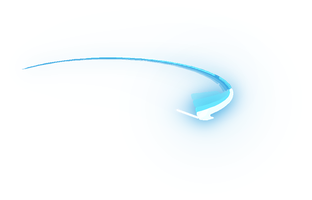
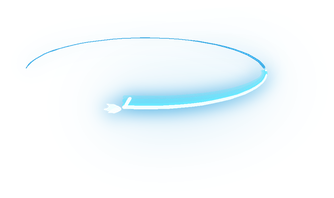
Slash sweep: near arc runs the whole way across the chest, thinner-but-stronger near stroke, fade pace follows the swing radius
sweep now starts behind the shoulder (u0 175) and ends past the nearest point (u1 460); the near part takes its thickness from a new swing key w_near (12 px), sparks fly on behind the blade, release 0.33; the fade rate of any plane swing is scaled by (radius/120)^0.5 so a 85 px swing no longer pops at 15 fps. Other slash effects are bit-identical; diag_down/diag_up change only at radii below 120. Docs and S2b result updated.

Claude-Session: https://claude.ai/code/session_01Q5Gk7TNfnTB4a4oLDadQgb

Changed region(s): [[0.0577, 0.2121, 0.8365, 0.6667], [0.2596, 0.1818, 0.6058, 0.2121], [0.6058, 0.2121, 0.6923, 0.2424]]

diff --git a/lib-fx/_core/formulas/draw/fxkit/layers/slash.py b/lib-fx/_core/formulas/draw/fxkit/layers/slash.py
@@ -45,7 +45,7 @@ def slash(c, ph, weapon="sword", bend=0.34, width=0.0, span=0.0, strands=0, tone
     swing: the same smear for a swing in a PLANE seen from the game's camera (dict; build.py --swing): {"k": flatness (1 = flat to the
     screen, 0.3 = lying on the ground, 0.6 = slanted), "roll": deg, "u0", "u1": the blade's angle in its plane at the start and the end
     (0 ahead, 90 near, 180 behind, 270 far; u grows ahead -> near -> behind -> far), "r": px the tip is from the shoulder a at s = 1
-    (0 = the distance a -> b), "blade": the share of the radius that is swept, "ease"}. a is the shoulder, b only says which way it
+    (0 = the distance a -> b), "blade": the share of the radius that is swept, "ease", "w_near": thickness of the near part, px at s = 1 (0 = from the radius)}. a is the shoulder, b only says which way it
     faces. The tip runs on a circle around a; what we see is its projection (plane_point). It is drawn in two halves: the far half
     (depth < 0) on the BACK canvas, cooler and thin, the near half on the FRONT canvas, bright and thick; everything else (fh, fade,
     three strands, white edge) is the track mode's. Overrides track."""
@@ -105,6 +105,7 @@ def slash(c, ph, weapon="sword", bend=0.34, width=0.0, span=0.0, strands=0, tone
         u0, u1 = float(sw.get("u0", 235)), float(sw.get("u1", 430)); ease = float(sw.get("ease", 1.3))
         R = float(sw.get("r", 0.0)) * s or c.sp.len; bl = float(sw.get("blade", 0.75)); blade = bl
         q_ = (1 - k_) / 0.75; wmin = 7.0 * s; mnear = min(2.4, 1 + 1.4 * q_)
+        wnear = float(sw.get('w_near', 0) or 0) * s                                          # the near part's own thickness (px at s = 1) instead of the radius-based one; 0 = old
 
         def uf(f): return u0 + (u1 - u0) * clamp(f) ** ease
         def pt3(f, rho):
@@ -142,7 +143,10 @@ def slash(c, ph, weapon="sword", bend=0.34, width=0.0, span=0.0, strands=0, tone
         return p, (-math.sin(a) * sg, math.cos(a) * sg)                                    # point, unit vector to the inside of the bow
 
     def pw(f):                                                                             # full ribbon width at arc position f
-        if sw: return max(wmin * mfac(f), R * bl * k_ * (1 + 0.16 * depth(f)) * mfac(f) / mnear) * prof((f - lo) / L)   # a stroke: fat where near, thin where far
+        if sw:                                                                              # a stroke: fat where near, thin where far
+            g = wnear if wnear else R * bl * k_
+            fl = wmin * (min(mfac(f), 1.0) if wnear else mfac(f))                         # the floor: with w_near it does not fatten the near part
+            return max(fl, g * (1 + 0.16 * depth(f)) * mfac(f) / mnear) * prof((f - lo) / L)
         if track: return blade * swing(f)[2] * prof((f - lo) / L)                          # the covered share of the blade, tip inwards
         return W * prof((f - lo) / L)
 
@@ -168,6 +172,7 @@ def slash(c, ph, weapon="sword", bend=0.34, width=0.0, span=0.0, strands=0, tone
         bands.append((x, x + ws[j])); x += ws[j] + (gaps[j] if j < K - 1 else 0.0)
     wmax = max(ws)
     lk = linger / 3.4 * (1.3 if axe else 1.0)
+    if sw: lk *= (R / 120.0) ** 0.5                                                         # a small swing fades slower, a 120 px one as before
     S = []
     for j in range(K):
         r = c.rng("strand", j)

diff --git a/lib-fx/melee/slash/slash.py b/lib-fx/melee/slash/slash.py
@@ -40,21 +40,21 @@ EFFECTS = {
 }
 
 
-def _plane_effect(name, title, desc, sw, tags, linger):
+def _plane_effect(name, title, desc, sw, tags, linger, sparks=((-10, 60), (0, 50)), release=0.36):
     """A smear of a swing in a PLANE seen from the game's camera (kind slash, parameter swing): a = the shoulder, b = one `reach` ahead of it,
     the tip runs on a circle of radius `reach` round a; the far half goes behind the character, the near half in front. The sparks start at
     the tip's last position (worked out from the same plane, so they follow the plane if it is changed)."""
     (x, y), _ = plane_point(sw, sw["u1"], 120.0)
     end = ("a", round(x, 1), round(-y, 1))
     return _slash.variant(name, title=title, space="aim", reach=120, extent=260, tags=["planar"] + tags, desc=desc,
-        layers={"slash": {"life": Life(-1 / 15, 1 / 15, 0.0, 0.36), "streaks": 0, "linger": linger, "swing": sw},
-                "scraps": {"at": end, "floor": True, "arc": (-10, 60), "life": Life(0.033, 0.033, 0.0, 0.33)},
-                "streaks": {"at": end, "arc": (0, 50), "life": Life(0.0, 0.033, 0.033, 0.13)}})
+        layers={"slash": {"life": Life(-1 / 15, 1 / 15, 0.0, release), "streaks": 0, "linger": linger, "swing": sw},
+                "scraps": {"at": end, "floor": True, "arc": sparks[0], "life": Life(0.033, 0.033, 0.0, 0.33)},
+                "streaks": {"at": end, "arc": sparks[1], "life": Life(0.0, 0.033, 0.033, 0.13)}})
 
 
 EFFECTS["sweep"] = _plane_effect("sweep", "Chém ngang", "a SWORD swung level with the ground (a horizontal sweep) seen from the game's camera: a very flat ellipse, nearly a line; the "
     "far half passes BEHIND the character, cool and thin, the near half in FRONT, bright and thick; use it with the shoulder as --from",
-    dict(k=0.3, roll=0.0, u0=215, u1=410, blade=0.75, ease=1.3), ["horizontal"], 3.4)
+    dict(k=0.3, roll=0.0, u0=175, u1=460, blade=0.75, ease=1.3, w_near=12), ["horizontal"], 3.4, sparks=((150, 215), (160, 200)), release=0.33)
 EFFECTS["diag_down"] = _plane_effect("diag_down", "Chém xéo xuống", "a SWORD slash on a slanted plane, from high behind the shoulder to low in front, seen from the "
     "game's camera: a half-flattened ellipse turned 35 degrees; use it with the shoulder as --from",
     dict(k=0.6, roll=35.0, u0=205, u1=400, blade=0.8, ease=1.3), ["diagonal"], 2.4)

diff --git a/lib-fx/_plans/slash-round-02/S2b-sweep-strength.md b/lib-fx/_plans/slash-round-02/S2b-sweep-strength.md
@@ -54,3 +54,48 @@ Dựng `diag_down`, `diag_up` với cùng `--from/--to` ở 15 fps trước và 
 - [ ] `python lib-fx/build.py melee/slash --check` không FAIL; `python lib-fx/_tools/fxkit_test.py` qua; commit + push; đánh dấu ô S2b trong `PLAN.md`.
 
 ## Kết quả (người làm điền: `u0`, `u1`, `w_near`, `release` cuối cùng; số đo từng tiêu chí; đường dẫn ảnh; lệch so với task và lý do)
+
+### Giá trị cuối cùng (người làm: S2b, 2026-11-14)
+`sweep`: **u0 = 175, u1 = 460, w_near = 12, release = 0,33** (k = 0.3, blade = 0.75, ease = 1.3 giữ nguyên). Mới thêm: khoá `w_near` của dict `swing`; hệ số tan `(R / 120) ** 0.5` trong nhánh mặt phẳng vung; tham số `release` (mặc định 0,36) và `sparks` (cung bay của `scraps` / `streaks`, mặc định như cũ) của `_plane_effect`. `diag_down`, `diag_up` giữ `w_near` = 0 (công thức cũ), `release` 0,36, sparks cũ.
+
+Ảnh (thư mục tạm, không ghi vào `out/`; thư mục scratchpad của session, có thể bị dọn):
+- trước / sau, r = 85, 6 khung đầu, trên thân `azure_blade`: `/tmp/claude-0/-home-user-fal-lab/0d4327dc-c403-51b7-8868-48c89542b69c/scratchpad/s2b/before_after_r85.png`
+- lưới 6 khung r = 85 / r = 120 (sau): `.../s2b/t8_r85.png`, `.../s2b/t8_r120.png`; khung trúng đòn phóng 300 %: `.../s2b/t8_zoom.png`; lưới trước: `.../s2b/before_r85_grid.png`, `.../s2b/before_r120_grid.png`
+- khung dựng: `.../s2b/before/{r85,r120,left85}` (mốc) và `.../s2b/t8/{r85,r120,left85,solo_r85,solo_r120}` (sau).
+
+### Số đo (15 fps, khung trúng đòn h = `hit_frame` trong `meta.json` = 2, 1-based; alpha >= 128; ghép lên khung 1 của `skill_crescent_puppet_side`, vai (140, 160))
+Mốc trước khi sửa (`u0 = 215`, `u1 = 410`), r = 85: `front/` 567 điểm, `back/` 279 (tỉ lệ 2,03); `front/` dài 57 px = 0,67 r; cao / rộng 0,335; `fxcheck`: pop (khung 3 -> 4 mất 47 %); A(h+1)/A(h) = 0,98, A(h+2)/A(h) = 0,51, A(h+3)/A(h) = 0,05; cung phần gần phủ: từ u = 0 tới 50° (u1 410 -> 50°). r = 120: front 1016, back 556, `front/` dài 0,48 r, cao / rộng 0,31, tỉ lệ A 0,69 / 0,41 / 0,10.
+
+Sau khi sửa:
+| tiêu chí | r = 85 | r = 120 | quay trái r = 85 |
+|---|---|---|---|
+| `front/` / `back/` (điểm) | 1462 / 294 = 4,97 | 2160 / 265 = 8,15 | 1474 / 294 = 5,01 |
+| `front/` dài ngang / (r * s) | 128 px = 1,51 | 164 px = 1,37 | 1,51 |
+| cao / rộng khung bao | 0,392 (67 / 171) | 0,318 (77 / 242) | 0,398 (68 / 171) |
+| bề dày lớn nhất phần gần (đường kính nội tiếp, nét riêng không scraps / streaks) | 16 px | 18 px | - |
+| gần / xa | 3,58 | 6,36 | - |
+| A(h+1) / A(h) | 0,71 | 0,69 | 0,74 |
+| A(h+2) / A(h) | 0,31 | 0,28 | 0,31 |
+| A(h+3) / A(h) | 0,00 | 0,00 | 0,00 |
+| `fxcheck` | chỉ cảnh báo `linger` (4 khung cuối < 2 %); không pop, không cut | như vậy | như vậy |
+- Cung phần gần phủ: từ u = 0 (trước mặt) tới 100° (u1 = 460), tức đi hết phần trước ngực và dừng ở phía gần hơi về sau.
+- Ảnh gương: IoU mặt nạ (khung trúng đòn, quay trái lật so với quay phải, cho phép lệch 1 px) = 0,987. Mốc trước khi sửa: 0,978.
+- Hai đầu: đuôi vệt nhọn như kim (xem `t8_zoom.png`); đầu vệt (bên trái, gần eo) vẫn mang bề rộng lưỡi và dải `edge` trắng nằm trong vệt như cũ (không thò ra); đầu này không nhọn hơn bản cũ (thiết kế của chế độ theo dõi: "đầu giữ bề rộng lưỡi").
+- Ảnh ghép: lưới 6 khung "trước" và "sau" cạnh nhau: lưỡi quét ngang qua trước ngực từ khung 2, rồi tan thành nét mảnh ở khung 4, rỗng ở khung 5.
+- Không hồi quy (hash SHA-256 của mọi png dựng, so trước / sau khi sửa, dựng hai lần giống nhau): `crescent`, `heavy`, `thrust`, `axe`, `axe_heavy` (30 fps, `--from 40,100 --to 200,140`), `swing --track` (15 fps, lệnh trong HANDOVER mục 5): **giống hệt**. `diag_down`, `diag_up` ở r = 120 giống hệt; ở r = 85 đổi (xem dưới).
+- `python lib-fx/build.py melee/slash --check`: không FAIL (xong, thoát 0; thư viện có `sweep` dựng lại, `lib-fx/catalog.json` đổi theo). `python lib-fx/_tools/fxkit_test.py`: xem dòng cuối của mục này.
+
+### Lệch so với task và lý do
+1. **`u0 = 175` thay vì 245** (task: 245, tối đa 255). Với 245 / 460 cao / rộng là 0,59 (r = 85) và 0,51 (r = 120). Quy tắc của task (giảm `u1`, tăng `u0`) đi sai hướng: tăng `u0` đưa điểm bắt đầu về phía xa nhất (u = 270), làm vệt cao thêm và hẹp đi (quét lưới u0 215 / 235 / 245 / 225 x u1 430 / 445 / 460, cao / rộng 0,45 - 0,59 cho r = 85). Chỉ hạ `u0` (đuôi kéo dài ra sau lưng) đưa tỉ lệ xuống <= 0,40: u0 = 195 cho 0,399, 185 cho 0,385, 175 cho 0,392 khi có sparks bay về sau. Hệ quả: vệt bắt đầu ở sau lưng nhân vật (x ~ -r), khung trước đòn là một chấm xanh nhỏ nằm sau lưng cách thân ~ 0,9 r (xem khung 1); `u1` giữ 460 (đo: u1 = 430 cho `front/` dài 0,72 r < 0,9; u1 = 445 cho 0,95 r, sát giới hạn; 460 cho 1,2 - 1,5 r và vệt đi hết qua điểm gần nhất u = 90).
+2. **`w_near = 12` thay vì 16.** Mạch task: `w_near` thay hằng `wmin` (7 px) làm bề dày nhỏ nhất, đặt 16. Nhưng `wmin` bị nhân `mfac` (tới 2,4 ở chỗ gần nhất), nên phần gần ra 38 px, và cách đo của tôi (đường kính nội tiếp mặt nạ alpha >= 128 ở khung trúng đòn) ở mốc đã cho 16,5 px (r = 85), không phải 10 - 12 như task ghi. Tôi định nghĩa `w_near` là bề dày nét ở chỗ gần nhất (px ở s = 1, trước hệ số phối cảnh 1,16) và hạ sàn `wmin * mfac` của phần gần để không làm dày thêm (phần xa không đổi: `4,5 px` ở r = 85 so với 4,5 trước đó). Với 14 thì đo ra 20 px (> 18); 12 cho 16 (r = 85) và 18 (r = 120), vào khoảng 14-18.
+3. **`release = 0,33` (hạ) thay vì 0,36 -> tối đa 0,42.** Sau khi nhân `(R / 120) ** 0.5` (làm vệt nhỏ tan chậm hơn), A(h+1) / A(h) ở r = 85 là 0,76 (hơi quá 0,75); không còn `pop`. Tăng `release` làm tan chậm hơn nên sai hướng; hạ xuống 0,33 cho 0,71 / 0,69 (đo 0,30: 0,68 / 0,64 nhưng A(h+2) của r = 120 thành 0,11, quá nhanh). `release` chỉ áp cho `sweep` (tham số mới, mặc định 0,36 cho `diag_*`).
+4. **Cung bay của `scraps` / `streaks` của `sweep` đổi** thành `(150, 215)` / `(160, 200)` (bay về sau, tiếp nối chiều đi của mũi lúc u = 100°). Với `u1` = 460 điểm cuối của mũi nằm cạnh eo, và cung cũ (về phía trước, lên) làm tia trắng cắt chéo qua thân ở khung 4. Không có trong task; không đụng `diag_*`.
+5. **`diag_down`, `diag_up` ở r = 85 đổi nhẹ** do hệ số tan `(R / 120) ** 0.5` (bước 3 áp cho cả nhánh mặt phẳng vung, đúng như task). Tỉ lệ A (h+1 / h+2 / h+3): `diag_down` 0,76 / 0,41 / 0,16 -> 0,78 / 0,43 / 0,17; `diag_up` 0,58 / 0,25 / 0,09 -> 0,59 / 0,26 / 0,12; `fxcheck` sạch trước và sau. `diag_down` ở r = 85 đã nhỉnh quá 0,75 từ trước (0,76). Ở r = 120 cả hai giống hệt (hash).
+6. Khung trúng đòn: lấy `hit_frame` của `meta.json` (1-based, = 2) làm h; chỉ số `peak@2` / `pop: frame 3 -> 4` của `fxcheck` đếm khác (khung 3 -> 4 = h+1 -> h+2).
+7. `parse_swing` trong `build.py` (dòng lệnh `--swing`) không nhận `w_near`: không nằm trong danh sách file được sửa; khoá này chỉ đặt qua dict trong `slash.py`.
+
+### Chưa đạt / cần người chấm xem
+- Cao / rộng r = 85: 0,392 (bản quay trái 0,398): sát giới hạn 0,40; sparks có thể làm vượt (cung `(165, 225)` cho 0,414).
+- Khung 1 (trước đòn) là một chấm xanh nằm sau lưng nhân vật (hệ quả của u0 = 175); nếu không muốn, phải đổi `k` hoặc giảm yêu cầu cao / rộng.
+- "Đầu vệt nhọn" chỉ đúng cho đuôi; đầu giữ bề rộng lưỡi (theo thiết kế chế độ theo dõi).
+- Chưa thử trên cặp pose thật của chém ngang (cần sinh ảnh, tốn tiền).

diff --git a/lib-fx/_core/formulas/draw/FXKIT.md b/lib-fx/_core/formulas/draw/FXKIT.md
@@ -143,10 +143,10 @@ python lib-fx/build.py melee/slash/crescent --from 107,191 --to 240,243 --pal fr
   và cú chém **xéo** là ellipse dẹt vừa xoay nghiêng; chỉ bổ dọc / hất lên mới nằm phẳng trên màn hình. Mũi vũ khí chạy trên một đường tròn quanh **vai** trong không gian, hình ta thấy là hình chiếu:
   ```
   python lib-fx/build.py melee/slash/sweep --from <vai X,Y> --to <điểm cùng độ cao, phía mặt quay> --pal frost --fps 15 --split \
-      --swing "k=0.3;roll=0;u0=215;u1=410;r=<vai -> mũi vũ khí>;blade=0.75;ease=1.3" --out <thư mục>
+      --swing "k=0.3;roll=0;u0=175;u1=460;r=<vai -> mũi vũ khí>;blade=0.75;ease=1.3" --out <thư mục>
   ```
   `k` = độ dẹt (1 phẳng với màn hình, 0.3 nằm trên đất, 0.6 xéo), `roll` = độ xoay trục dài (dương: đầu phía trước chúc xuống), `u0` / `u1` = góc lưỡi trong mặt phẳng lúc đầu / cuối
-  (0 phía trước, 90 **gần** người xem, 180 phía sau, 270 **xa**; `u` tăng: trước -> gần -> sau -> xa), `r` = bán kính mũi (px @2x; 0 = khoảng cách `--from` -> `--to`), `blade` = phần bán kính được quét.
+  (0 phía trước, 90 **gần** người xem, 180 phía sau, 270 **xa**; `u` tăng: trước -> gần -> sau -> xa), `r` = bán kính mũi (px @2x; 0 = khoảng cách `--from` -> `--to`), `blade` = phần bán kính được quét. Khoá `w_near` (chỉ có trong dict `swing` của hiệu ứng, không có trên dòng lệnh; px @2x ở s = 1) đặt bề dày của phần gần thay cho công thức theo bán kính (`sweep`: 12; 0 / không có = công thức cũ, `diag_*`); nhịp tan được nhân `(r * s / 120) ** 0.5` nên vệt nhỏ tan chậm lại.
   Nửa **xa** (depth < 0) vẽ vào `back/` (sau thân), mảnh, tông nguội, không mép trắng, quầng giảm nửa; nửa **gần** vào `front/`, dày, sáng; `k = 1` cho cung tròn nằm hết ở `front/`.
   Nhịp (khung trước đòn, khung trúng đòn, tan) giống `swing`. Không dùng chung với `--track`. Hình học trong `layers/slash.py` (`plane_point`); lệch so với công thức ban đầu của task: bề dày nét lấy theo `k * R * blade` nhân hệ số gần / xa
   (không lấy hình chiếu của lưỡi), vì hình chiếu thật làm hai đầu trái phải tròn bè, không nhọn như một đường chém.

diff --git a/lib-fx/_core/formulas/rules/vfx/slash/README.md b/lib-fx/_core/formulas/rules/vfx/slash/README.md
@@ -72,5 +72,5 @@ Cú vung nằm trong một mặt phẳng; máy quay cao, chếch xuống, nên h
 - **chém ngang** (`k = 0.3`, `sweep`): ellipse cao / rộng ~ 0,3, gần thành một đường; nửa đi sau thân (xa) mảnh và nguội, vẽ SAU thân; nửa đi trước (gần) dày và sáng, vẽ ĐÈ lên thân;
 - **chém xéo** (`k = 0.6`, `roll = +-35`, `diag_down` / `diag_up`): ellipse dẹt vừa, xoay nghiêng; từ cao phía sau xuống thấp phía trước, hoặc ngược lại.
 Luật: nét dày mỏng theo gần xa (xa 0,3 - gần 2,4 lần nét tối thiểu, nội suy theo `k`), không biến mất ở chỗ nhìn từ cạnh; nửa xa không có mép trắng; hai đầu vệt thon nhọn.
-Số đo đã đạt (2026-11-13, 15 fps): `sweep` cao / rộng 0,31, nét gần dày gấp 2,6 nét xa; `diag_down` 1,09, `diag_up` 1,0 (khung bao ở khung trúng đòn). Chi tiết: `lib-fx/_plans/slash-round-02/S2-swing-planes.md`.
+Số đo đã đạt (2026-11-14, 15 fps, S2b): `sweep` (u0 = 175, u1 = 460, `w_near` = 12, release 0,33) quét ngang qua trước ngực (phần gần dài 1,4 - 1,5 lần bán kính), cao / rộng 0,32 - 0,40, nét gần dày 16 - 18 px, gấp 3,6 - 6 lần nét xa; (S2, 2026-11-13: `sweep` cao / rộng 0,31, nét gần dày gấp 2,6 nét xa); `diag_down` 1,09, `diag_up` 1,0 (khung bao ở khung trúng đòn). Chi tiết: `lib-fx/_plans/slash-round-02/S2-swing-planes.md`.
 Còn mở: rìu theo mặt phẳng (S3), thử trên một pose pair thật của ngang / xéo.
